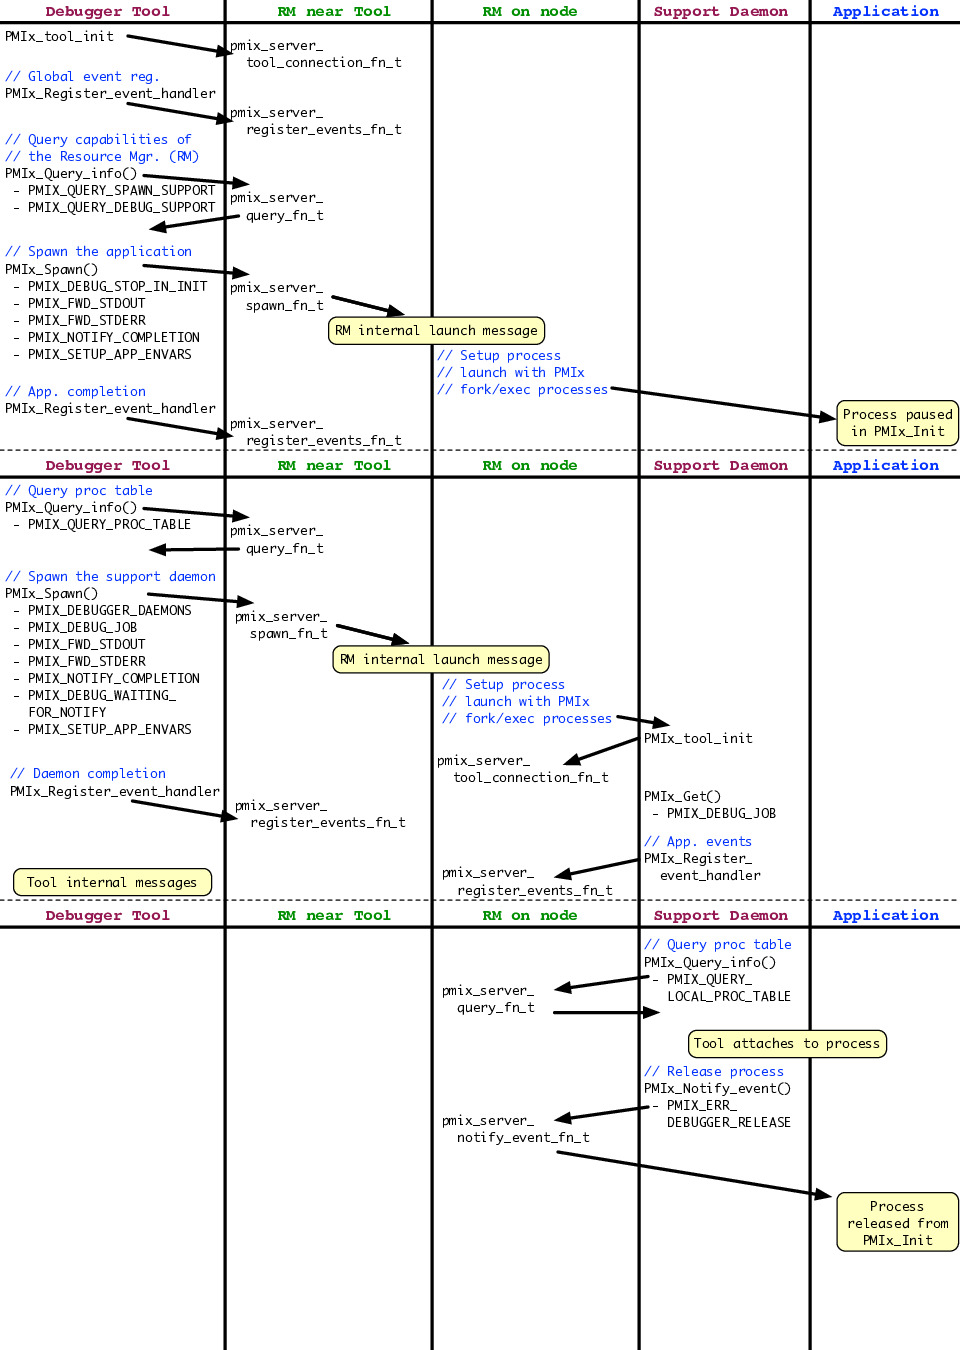
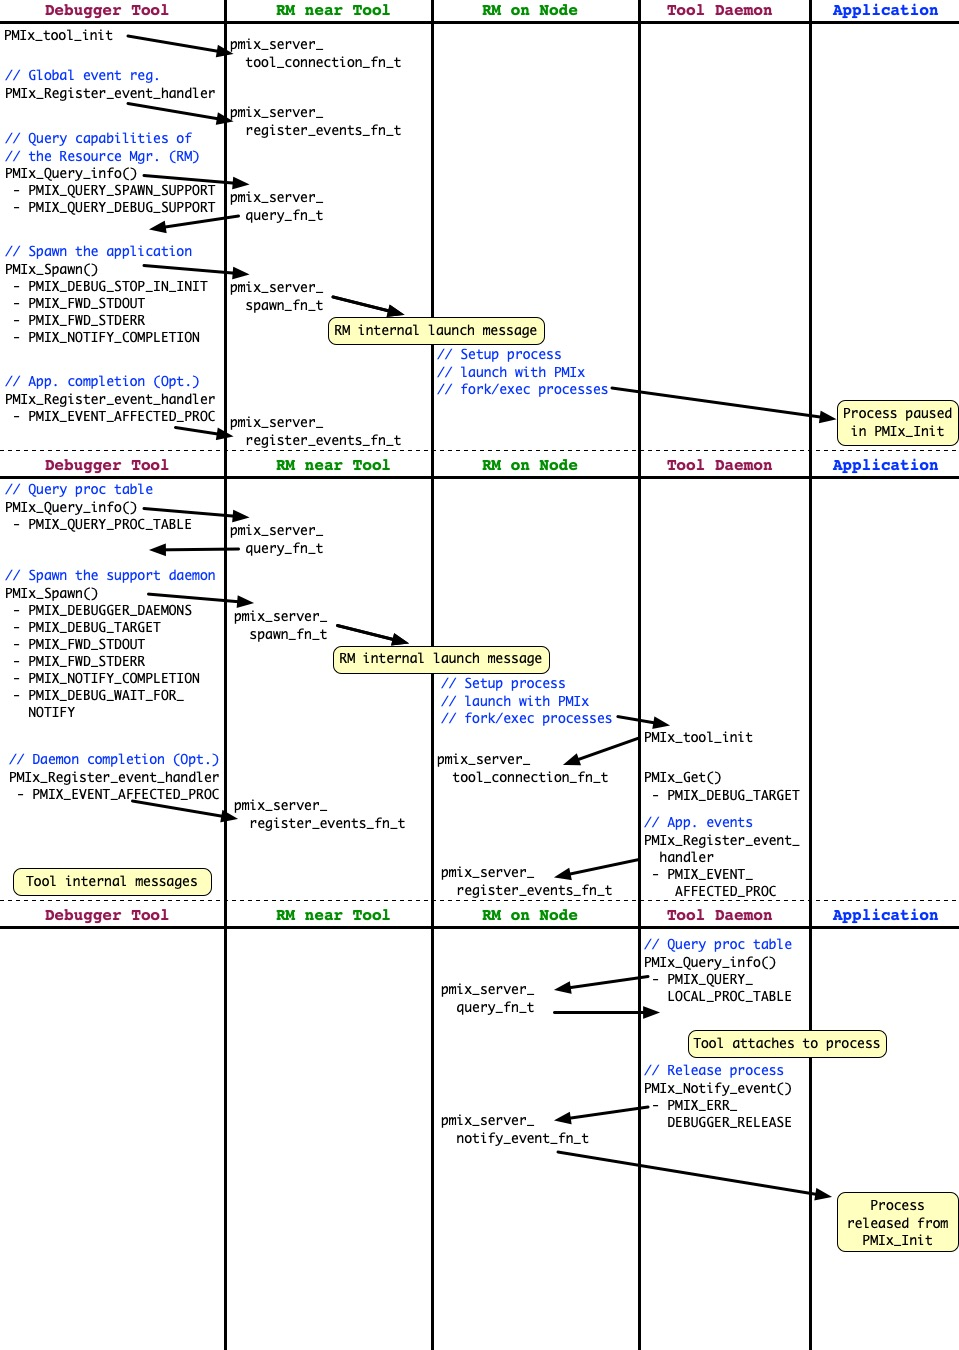
Fixup the Debugger Use case diagrams

diff --git a/App_Use_Cases.tex b/App_Use_Cases.tex
@@ -150,12 +150,15 @@ Assuming it is supported, co-launch of debugger daemons in this use-case is supp
 \pasteAttributeItem{PMIX_QUERY_SPAWN_SUPPORT}
 \pasteAttributeItem{PMIX_QUERY_DEBUG_SUPPORT}
 \pasteAttributeItem{PMIX_DEBUG_STOP_IN_INIT}
+\pasteAttributeItem{PMIX_DEBUG_STOP_ON_EXEC}
 \pasteAttributeItem{PMIX_FWD_STDOUT}
 \pasteAttributeItem{PMIX_FWD_STDERR}
 \pasteAttributeItem{PMIX_NOTIFY_COMPLETION}
 \pasteAttributeItem{PMIX_SETUP_APP_ENVARS}
+\pasteAttributeItem{PMIX_EVENT_AFFECTED_PROC}
 \pasteAttributeItem{PMIX_DEBUGGER_DAEMONS}
-\pasteAttributeItem{PMIX_DEBUG_JOB}
+\pasteAttributeItem{PMIX_DEBUG_TARGET}
+\pasteAttributeItem{PMIX_DEBUG_WAIT_FOR_NOTIFY}
 \pasteAttributeItem{PMIX_QUERY_LOCAL_PROC_TABLE}
 
 \littleheader{Related Constants}
@@ -205,27 +208,27 @@ In this operational mode, the user invokes a tool (typically on a non-compute, o
 
 \littleheader{Related Attributes}
 
+\pasteAttributeItem{PMIX_LAUNCH_DIRECTIVES}
 \pasteAttributeItem{PMIX_SPAWN_TOOL}
 \pasteAttributeItem{PMIX_FWD_STDOUT}
 \pasteAttributeItem{PMIX_FWD_STDERR}
 \pasteAttributeItem{PMIX_SETUP_APP_ENVARS}
 \pasteAttributeItem{PMIX_DEBUG_STOP_IN_INIT}
+\pasteAttributeItem{PMIX_DEBUG_STOP_ON_EXEC}
 \pasteAttributeItem{PMIX_QUERY_PROC_TABLE}
-\pasteAttributeItem{PMIX_DEBUGGER_DAEMONS}
-\pasteAttributeItem{PMIX_DEBUG_JOB}
-\pasteAttributeItem{PMIX_FWD_STDOUT}
-\pasteAttributeItem{PMIX_FWD_STDERR}
-\pasteAttributeItem{PMIX_NOTIFY_COMPLETION}
-\pasteAttributeItem{PMIX_SETUP_APP_ENVARS}
-\pasteAttributeItem{PMIX_DEBUG_JOB}
 \pasteAttributeItem{PMIX_QUERY_LOCAL_PROC_TABLE}
+\pasteAttributeItem{PMIX_DEBUGGER_DAEMONS}
+\pasteAttributeItem{PMIX_NOTIFY_COMPLETION}
+\pasteAttributeItem{PMIX_DEBUG_TARGET}
+\pasteAttributeItem{PMIX_WAIT_FOR_CONNECTION}
 
 \littleheader{Related Constants}
 
 \refconst{PMIX_LAUNCHER_READY} \\
 \refconst{PMIX_LAUNCH_COMPLETE} \\
 \refconst{PMIX_DEBUG_WAITING_FOR_NOTIFY} \\
-\refconst{PMIX_DEBUGGER_RELEASE}
+\refconst{PMIX_DEBUGGER_RELEASE} \\
+\refenvar{PMIX_LAUNCHER_RNDZ_URI}
 
 \subsubsection{Attaching to a Running Job}
 
@@ -257,11 +260,11 @@ An example of this use-case may look like the following: \code{mpiexec -n32~./my
 
 \pasteAttributeItem{PMIX_QUERY_PROC_TABLE}
 \pasteAttributeItem{PMIX_DEBUGGER_DAEMONS}
-\pasteAttributeItem{PMIX_DEBUG_JOB}
+\pasteAttributeItem{PMIX_DEBUG_TARGET}
 \pasteAttributeItem{PMIX_FWD_STDOUT}
 \pasteAttributeItem{PMIX_FWD_STDERR}
 \pasteAttributeItem{PMIX_NOTIFY_COMPLETION}
-\pasteAttributeItem{PMIX_SETUP_APP_ENVARS}
+\pasteAttributeItem{PMIX_REQUESTOR_IS_TOOL}
 
 \pasteAttributeItem{PMIX_QUERY_NAMESPACES}
 
